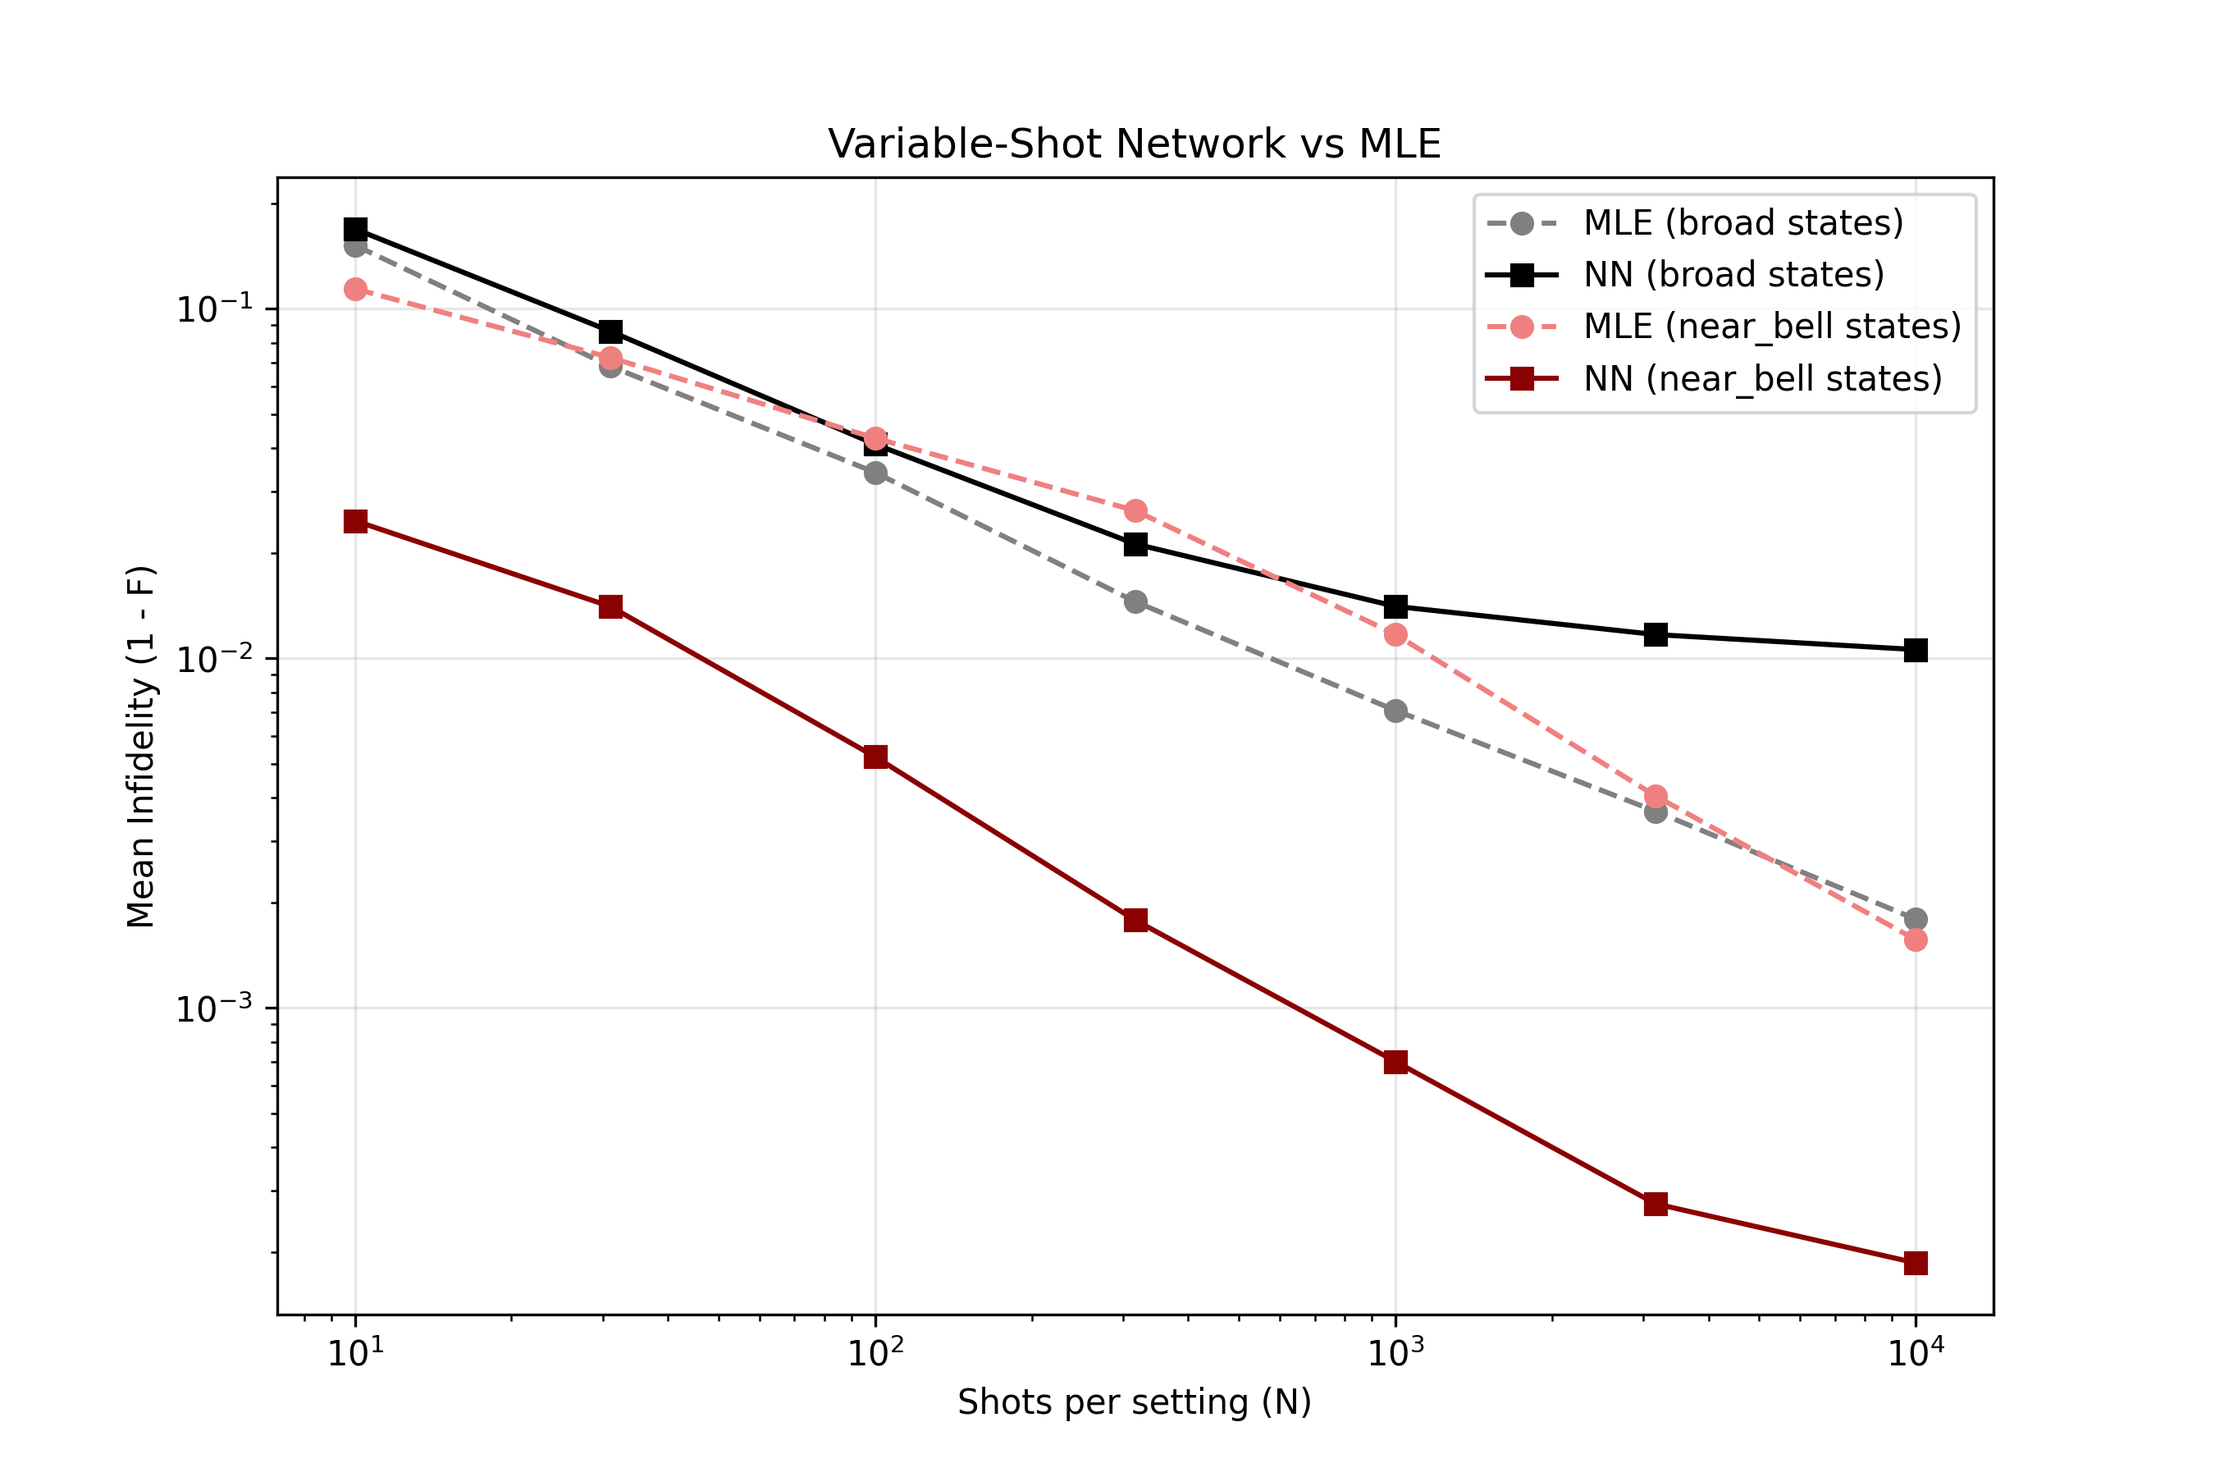
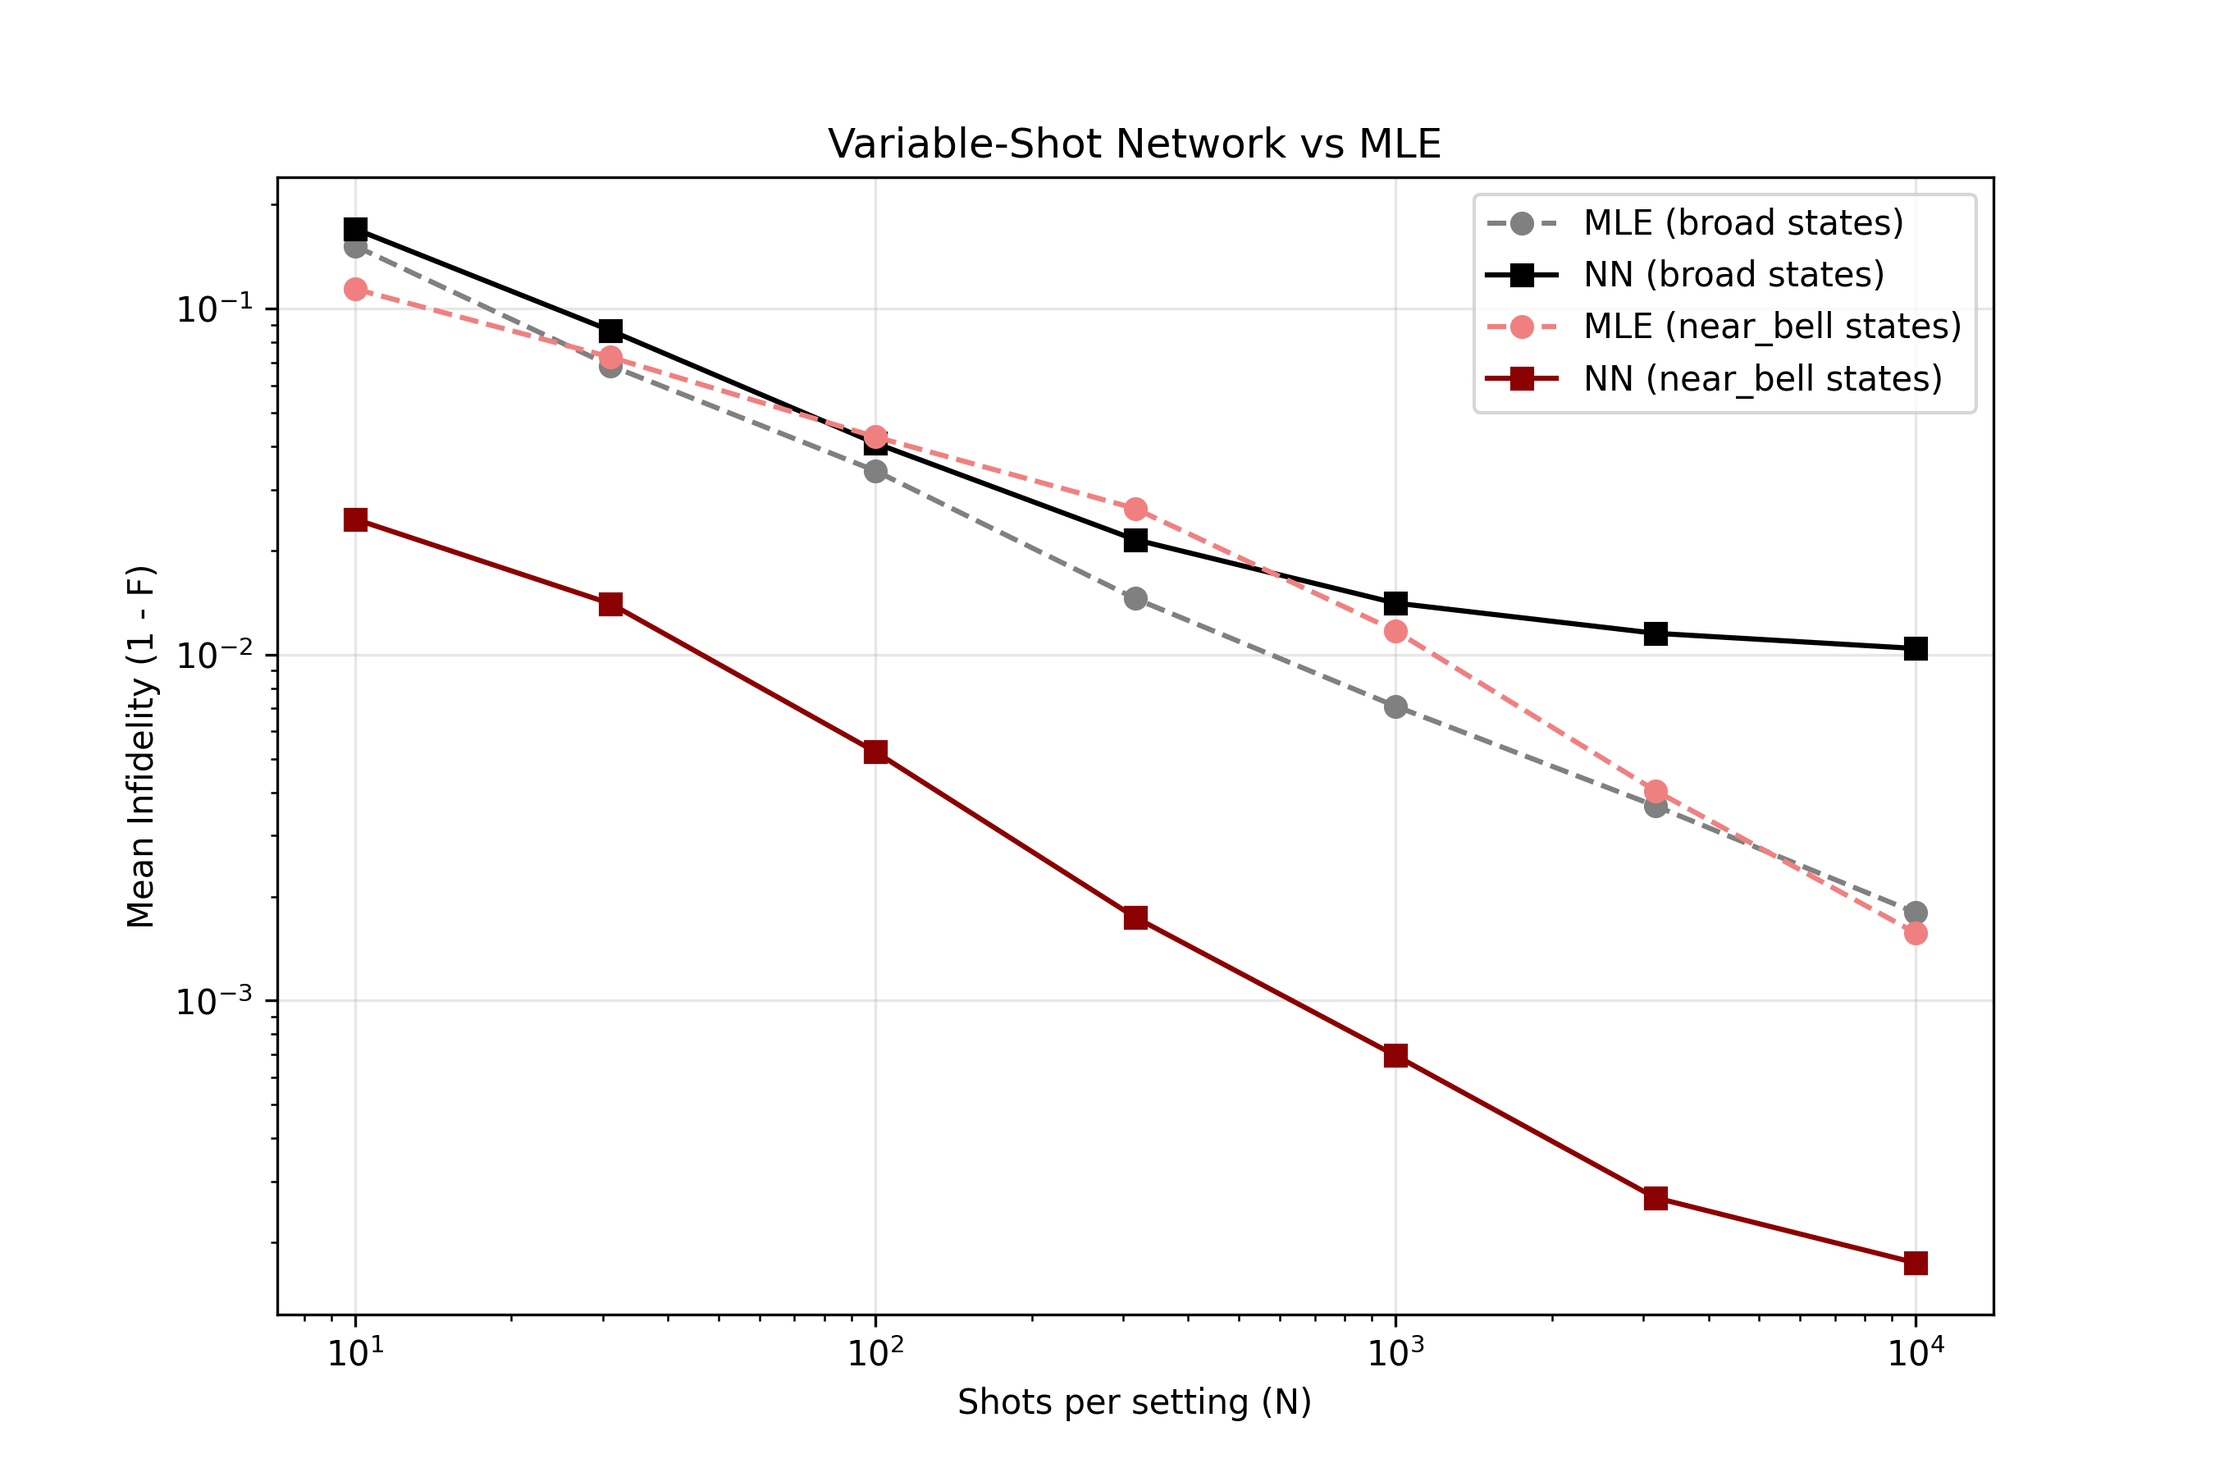
speed benchmark added and documented in README.md

diff --git a/train/train_neural_tomo.py b/train/train_neural_tomo.py
@@ -12,17 +12,27 @@ from utils.states import fidelity, measurement_operators
 from tomography.reconstruct import linear_inversion, project_to_physical, mle
 from train.arguments import parse_args
 
-def complex_mse_loss(rho_pred, rho_true):
+N_REF = 316.0   # geometric centre of the shot range 10..10^4; sample weights are (N / N_REF) ** gamma
+
+
+def complex_mse_loss(rho_pred, rho_true, weights=None):
     diff = rho_pred - rho_true
-    return torch.sum(diff.real ** 2 + diff.imag ** 2) / rho_pred.shape[0]
+    sq = diff.real ** 2 + diff.imag ** 2                       # (B, 4, 4)
+    if weights is not None:
+        sq = sq * weights.reshape(-1, 1, 1)
+    return torch.sum(sq) / rho_pred.shape[0]
+
 
 @torch.no_grad()
 def predict(model, x, device, bs=2048):
     model.eval()
     return torch.cat([model(x[i:i + bs].to(device)).cpu() for i in range(0, len(x), bs)]).numpy()
 
+def infidelities(pred, true):
+    return np.array([1 - fidelity(p.astype(np.complex128), t.astype(np.complex128)) for p, t in zip(pred, true)])
+
 def mean_infidelity(pred, true):
-    return float(np.mean([1 - fidelity(p.astype(np.complex128), t.astype(np.complex128)) for p, t in zip(pred, true)]))
+    return float(np.mean(infidelities(pred, true)))
 
 def baselines(x, y, n=500, mle_iters=1000):
     E = measurement_operators()
@@ -44,24 +54,28 @@ def baselines(x, y, n=500, mle_iters=1000):
 
 def main():
     args = parse_args()
+    # gamma = 0 reproduces the previous behaviour. gamma > 0 weights each training state by (N / 316)^gamma, so the
+    # high-shot states (small errors) count as much as the low-shot ones, and selects the checkpoint by the mean of
+    # log10(infidelity), which treats every decade of shot counts equally.
+    gamma = getattr(args, "tomo_loss_gamma", 0.0)
     device = torch.device(args.device)
     if args.device == "mps" and not torch.backends.mps.is_available():
         device = torch.device("cpu")
 
     data = torch.load(args.tomo_data_path)
     tr, va, te = data["train"], data["val"], data["test"]
-    print(f"Training unified neural tomography on {args.tomo_data_path} (Variable Shots)")
+    print(f"Training unified neural tomography on {args.tomo_data_path} (Variable Shots), loss gamma = {gamma}")
 
     print("\nReference infidelities on the first 500 validation states:")
     for name, val in baselines(va["x"], va["y"]).items():
         print(f"  {name:<32s}: {val:.4e}")
 
     loader = DataLoader(TensorDataset(tr["x"], tr["y"]), batch_size=args.batch_size, shuffle=True)
-    model = NeuralTomography(hidden_dim=args.tomo_hidden_dim).to(device)
+    model = NeuralTomography(hidden_dim=args.tomo_hidden_dim, n_layers=args.tomo_n_layers).to(device)
     optimizer = optim.Adam(model.parameters(), lr=args.learning_rate)
     scheduler = optim.lr_scheduler.CosineAnnealingLR(optimizer, T_max=args.epochs, eta_min=args.min_lr)
 
-    best_inf, best_state, history = float("inf"), None, []
+    best_score, best_state, history = float("inf"), None, []
     pbar = tqdm(range(args.epochs))
     for epoch in pbar:
         model.train()
@@ -69,7 +83,8 @@ def main():
         for xb, yb in loader:
             xb, yb = xb.to(device), yb.to(torch.complex64).to(device)
             optimizer.zero_grad()
-            loss = complex_mse_loss(model(xb), yb)
+            w = (10 ** xb[:, 36] / N_REF) ** gamma if gamma > 0 else None
+            loss = complex_mse_loss(model(xb), yb, w)
             loss.backward()
             
             torch.nn.utils.clip_grad_norm_(model.parameters(), 1.0)
@@ -78,12 +93,15 @@ def main():
         scheduler.step()
 
         val_pred, val_true = predict(model, va["x"][:2000], device), va["y"][:2000].numpy()
-        val_inf = mean_infidelity(val_pred, val_true)
+        inf = infidelities(val_pred, val_true)
+        val_inf, val_log = float(np.mean(inf)), float(np.mean(np.log10(np.maximum(inf, 1e-8))))
         val_loss = float(np.mean(np.sum(np.abs(val_pred - val_true) ** 2, axis=(1, 2))))
-        history.append({"epoch": epoch + 1, "train_loss": running / len(tr["x"]), "val_loss": val_loss, "val_infidelity": val_inf})
-        
-        if val_inf < best_inf:
-            best_inf = val_inf
+        history.append({"epoch": epoch + 1, "train_loss": running / len(tr["x"]), "val_loss": val_loss,
+                        "val_infidelity": val_inf, "val_log10_infidelity": val_log})
+
+        score = val_log if gamma > 0 else val_inf
+        if score < best_score:
+            best_score = score
             best_state = {k: v.cpu().clone() for k, v in model.state_dict().items()}
         pbar.set_postfix({"Loss": f"{running / len(tr['x']):.3e}", "ValLoss": f"{val_loss:.3e}", "ValInfid": f"{val_inf:.3e}"})
 
@@ -92,7 +110,8 @@ def main():
     
     state_type = data["info"]["state_type"]
     save_path = os.path.join(args.checkpoint_dir, f"neural_tomo_{state_type}.pth")
-    torch.save({"state_dict": best_state, "hidden_dim": args.tomo_hidden_dim, "info": data["info"]}, save_path)
+    torch.save({"state_dict": best_state, "hidden_dim": args.tomo_hidden_dim, "n_layers": args.tomo_n_layers,
+                "loss_gamma": gamma, "info": data["info"]}, save_path)
 
     # Save the training history for capacity/overfitting analysis
     history_path = os.path.join(args.checkpoint_dir, f"history_{state_type}.json")

diff --git a/tomography/benchmark_speed.py b/tomography/benchmark_speed.py
@@ -1,0 +1,114 @@
+# tomography/benchmark_speed.py
+"""Speed (and convergence) of MLE vs. the variable-shot neural reconstruction.
+
+    python -m tomography.benchmark_speed --ensemble near_bell --checkpoint checkpoints/<your_near_bell_model>.pth \
+        --shots 100 1000 10000 --n-states 100
+
+MLE is timed for several iteration counts (tol=0, so every iteration runs) together with the infidelity it reaches,
+which shows how many iterations it needs at each shot count. Without --checkpoint only MLE is timed.
+
+Caveat: this MLE is a plain per-state numpy loop. A batched implementation (GPU or vectorized) would be much faster,
+so the speedup printed here is an upper bound on what a network would save over a well-written MLE.
+"""
+import argparse
+import importlib
+import time
+
+import numpy as np
+
+
+def _load(module):
+    """Import <module> from the 'utils' package if it exists there, otherwise from 'tomography'."""
+    for pkg in ("utils", "tomography"):
+        try:
+            return importlib.import_module(f"{pkg}.{module}")
+        except ImportError:
+            continue
+    raise ImportError(f"could not import '{module}' from utils or tomography")
+
+
+_states, _ensembles, _reconstruct = _load("states"), _load("ensembles"), _load("reconstruct")
+measurement_operators, sample_counts, fidelity = _states.measurement_operators, _states.sample_counts, _states.fidelity
+mle = _reconstruct.mle
+ENSEMBLES = {"broad": _ensembles.random_broad_state, "near_bell": _ensembles.random_near_bell_state}
+
+
+def load_network(args):
+    """Return predict(x, n_shots) -> (n, 4, 4) complex array, or None if no checkpoint is given.
+
+    x holds the 36 frequencies (n, 36); the log10(N) column that the model expects is appended here.
+    """
+    if args.checkpoint is None:
+        return None
+    import torch
+    from model.tomography_model import NeuralTomography
+
+    ck = torch.load(args.checkpoint, map_location="cpu")
+    wrapped = isinstance(ck, dict) and "state_dict" in ck
+    hidden = ck.get("hidden_dim", args.hidden_dim) if wrapped else args.hidden_dim
+    n_layers = ck.get("n_layers", args.n_layers) if wrapped else args.n_layers
+    model = NeuralTomography(hidden_dim=hidden, n_layers=n_layers)
+    model.load_state_dict(ck["state_dict"] if wrapped else ck)
+    model.eval()
+
+    def predict(x, n_shots):
+        x37 = np.concatenate([x, np.full((len(x), 1), np.log10(n_shots), dtype=np.float32)], axis=1)
+        with torch.no_grad():
+            return model(torch.from_numpy(x37)).numpy()
+
+    return predict
+
+
+def mean_infidelity(pred, true):
+    return float(np.mean([1 - fidelity(np.asarray(p, dtype=np.complex128), t) for p, t in zip(pred, true)]))
+
+
+def main():
+    p = argparse.ArgumentParser()
+    p.add_argument("--ensemble", choices=list(ENSEMBLES), default="broad")
+    p.add_argument("--checkpoint", default=None, help="trained variable-shot network (.pth); omit to time MLE only")
+    p.add_argument("--hidden-dim", type=int, default=256, help="used if the checkpoint does not store it")
+    p.add_argument("--n-layers", type=int, default=3, help="used if the checkpoint does not store it")
+    p.add_argument("--shots", type=int, nargs="+", default=[100, 1000, 10000])
+    p.add_argument("--n-states", type=int, default=100)
+    p.add_argument("--iters", type=int, nargs="+", default=[50, 200, 1000, 2000])
+    p.add_argument("--seed", type=int, default=0)
+    args = p.parse_args()
+
+    rng = np.random.default_rng(args.seed)
+    E = measurement_operators()
+    predict = load_network(args)
+    if predict is None:
+        print("(no --checkpoint given: timing MLE only)")
+
+    for n_shots in args.shots:
+        states = [ENSEMBLES[args.ensemble](rng) for _ in range(args.n_states)]
+        counts = [sample_counts(s, E, n_shots, rng) for s in states]
+        print(f"\n{args.ensemble} states, {n_shots} shots/setting, {args.n_states} states")
+        t_mle = None
+        for iters in args.iters:
+            t0 = time.perf_counter()
+            est = [mle(c, E, iters=iters, tol=0) for c in counts]
+            t_mle = (time.perf_counter() - t0) / len(counts)
+            print(f"  MLE, {iters:>5d} iterations : {t_mle * 1e3:8.2f} ms/state   infidelity {mean_infidelity(est, states):.3e}")
+
+        if predict is not None:
+            x = np.array([(c / n_shots).reshape(-1) for c in counts], dtype=np.float32)
+            predict(x[:8], n_shots)                                         # warm-up
+            reps = 5
+            t0 = time.perf_counter()
+            for _ in range(reps):
+                out = predict(x, n_shots)
+            t_batch = (time.perf_counter() - t0) / reps / len(x)
+            n1 = min(50, len(x))
+            t0 = time.perf_counter()
+            for i in range(n1):
+                predict(x[i:i + 1], n_shots)
+            t_single = (time.perf_counter() - t0) / n1
+            print(f"  network, batch of {len(x)}      : {t_batch * 1e6:8.1f} us/state   infidelity {mean_infidelity(out, states):.3e}")
+            print(f"  network, one state at a time : {t_single * 1e6:8.1f} us/state")
+            print(f"  speedup vs. MLE ({args.iters[-1]} it.)    : x{t_mle / t_batch:,.0f} (batched), x{t_mle / t_single:,.0f} (single)")
+
+
+if __name__ == "__main__":
+    main()

diff --git a/tomography/variable_cross_eval.py b/tomography/variable_cross_eval.py
@@ -11,7 +11,9 @@ from tomography.reconstruct import mle
 
 def load_network(path, device):
     ckpt = torch.load(path, map_location=device)
-    model = NeuralTomography(hidden_dim=ckpt["hidden_dim"]).to(device)
+    # Default to 3 if loading an older checkpoint that didn't save n_layers
+    n_layers = ckpt.get("n_layers", 3)
+    model = NeuralTomography(hidden_dim=ckpt["hidden_dim"], n_layers=n_layers).to(device)
     model.load_state_dict(ckpt["state_dict"])
     model.eval()
     return model
@@ -25,7 +27,7 @@ def main():
     n_states = 250  # Lowered slightly to speed up the MLE sweep
     
     # Path depends on your exact N_TRAIN and EPOCHS shell variables
-    ckpt_dir = "checkpoints/neural_tomo_variable_200000_100ep"
+    ckpt_dir = "checkpoints/neural_tomo_variable_600000_100ep"
     broad_model = load_network(f"{ckpt_dir}/neural_tomo_broad.pth", device)
     bell_model = load_network(f"{ckpt_dir}/neural_tomo_near_bell.pth", device)
     
@@ -87,8 +89,8 @@ def main():
     plt.title('Variable-Shot Network vs MLE')
     plt.legend()
     plt.grid(True, alpha=0.3)
-    plt.savefig('results/figures/variable_shot_eval.png', dpi=300)
-    print("\nSaved plot to variable_shot_eval.png")
+    plt.savefig('results/figures/variable_shot_eval_n_hidden_264_n_layers_4.png', dpi=300)
+    print("\nSaved plot to variable_shot_eval_n_hidden_264_n_layers_4.png")
 
 if __name__ == "__main__":
     main()

diff --git a/train/arguments.py b/train/arguments.py
@@ -50,6 +50,7 @@ def parse_args():
     parser.add_argument('--n-test-tomo', type=int, default=10000)
     parser.add_argument('--bell-noise', type=float, default=0.05, help='Depolarising noise added to exact Bell states')
     parser.add_argument('--tomo-hidden-dim', type=int, default=256)
+    parser.add_argument('--tomo-n-layers', type=int, default=3, help='Number of hidden layers in the neural tomography model')
 
     args, unknown = parser.parse_known_args()
     return args

diff --git a/model/tomography_model.py b/model/tomography_model.py
@@ -23,7 +23,7 @@ class NeuralTomography(nn.Module):
     def forward(self, x):
         # x is (B, 37). Split into frequencies and log_N
         freqs = x[:, :36]
-        log_N = x[:, 36:]
+        log_N = (x[:, 36:] - 2.5) / 1.5
         
         # Project frequencies and concatenate log_N
         correlators = freqs @ self.M

diff --git a/README.md b/README.md
@@ -39,6 +39,13 @@ The QuTiP simulator implements $T_1$ decay, dispersive cavity response, and mult
 - **A calibrated correction recovers scaling:** With MLE correction, the infidelity resumes falling with the number of shots. 
 - **Classifier impact:** Uncorrected, the matched filter performs worse than the LDA or CNN. With correction, the CNN and LDA perform similarly and slightly outperform the matched filter.
 
+### Inference Speed
+The neural network provides a massive reduction in reconstruction latency compared to Maximum Likelihood Estimation. This microsecond-scale execution makes the neural prior viable for real-time hardware feedback loops where MLE introduces critical bottlenecks.
+
+* **MLE (2000 iterations):** ~22.0 ms / state
+* **Neural Network (Unbatched):** ~90-110 μs / state (~200x speedup)
+* **Neural Network (Batched, size 100):** ~3-5 μs / state (> 4,000x speedup)
+
 ## Development Methodology
 
 The core CNN architecture, QuTiP simulation boilerplate, and classical baselines were scaffolded with the assistance of AI coding tools. Primary technical contributions focus on structuring the quantum state tomography math (Maximum Likelihood Estimation and Linear Inversion), designing the physical simulation to isolate multi-qubit crosstalk, decoupling analog data generation pools for high-shot scaling, and engineering variable-shot neural network architectures to benchmark learned priors against fundamental statistical limits.
